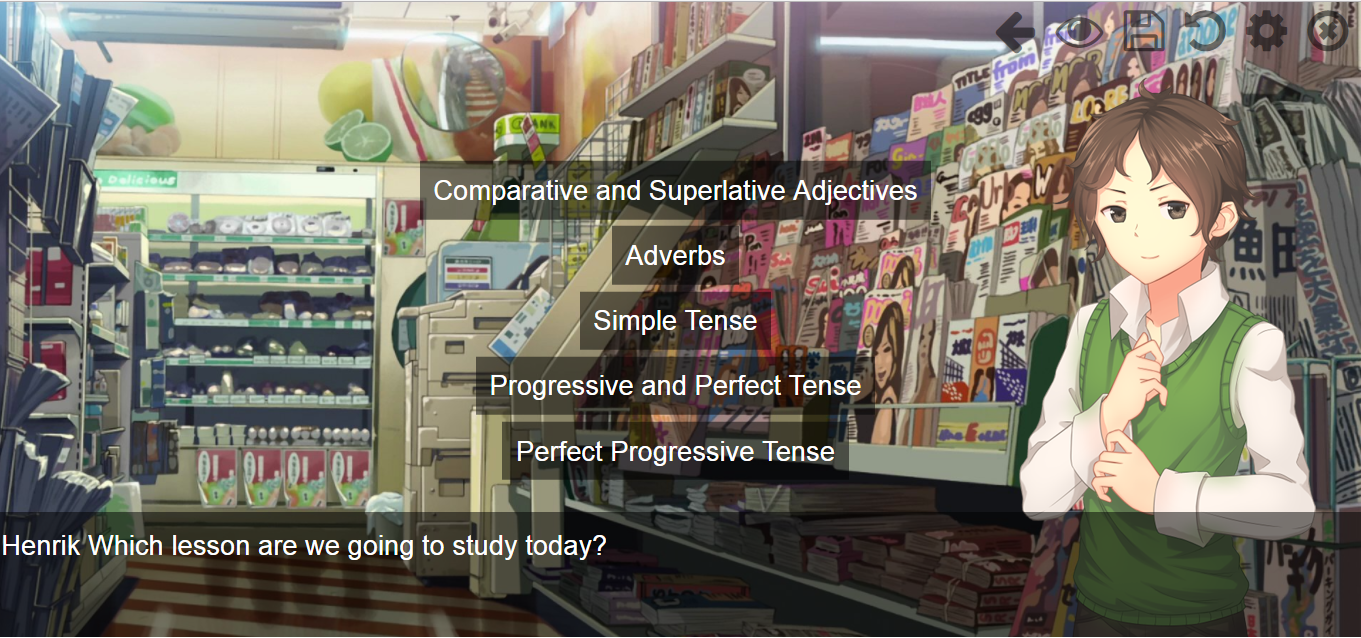
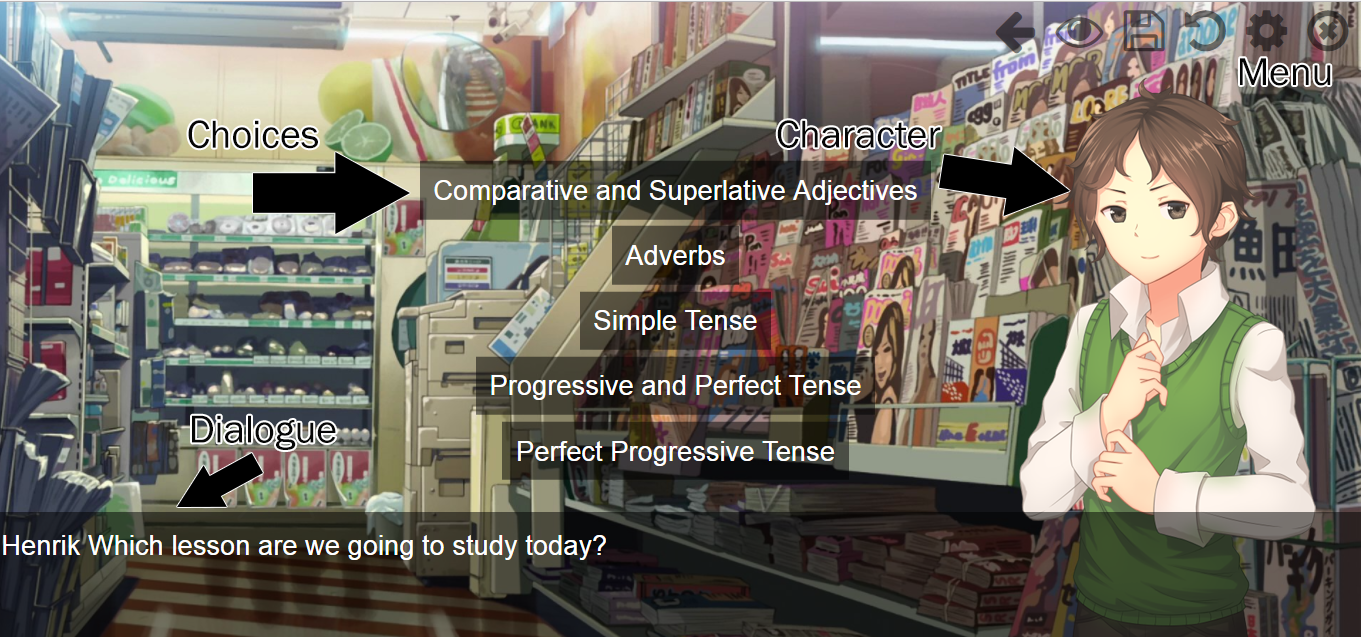
Another Fix
:)

diff --git a/beta/Monogatari/js/script.js b/beta/Monogatari/js/script.js
@@ -59,7 +59,6 @@ var characters = {
 		"Color": "#5bcaff",
 		"Directory":"Sachi",
 		"Images":{
-
 			"Normal":"sachinormal.png",
 			"Happy":"sachi.png"
 		}

diff --git a/beta/accounts_admin.php b/beta/accounts_admin.php
@@ -5,10 +5,23 @@ if(!isset($_SESSION['login']) || !$_SESSION['admin']){
    $_SESSION['error'] = '<b>Error</b> - Please login to continue';
         header("Location: login.php");
 }
+
 $title = 'Accounts';
 $color = 'blue';
 $active = array_fill(0,8,''); 
-$active[7]='active'; include_once('sidepanel.php');?>
+$active[7]='active'; include_once('sidepanel.php');
+if(isset($_SESSION['error']))
+{
+	showNotif("alert-danger", $_SESSION['error']);
+	unset($_SESSION['error']);
+}
+if(isset($_SESSION['success']))
+{
+	showNotif("alert-success", $_SESSION['success']);
+	unset($_SESSION['success']);
+}
+?>
+
   <link href = '//cdnjs.cloudflare.com/ajax/libs/semantic-ui/2.2.6/semantic.min.css' rel ='stylesheet'/>
   <link href = 'https://cdn.datatables.net/1.10.15/css/jquery.dataTables.min.css' rel = 'stylesheet'/>
   <link href ='https://cdn.datatables.net/1.10.15/css/dataTables.semanticui.min.css' rel = 'stylesheet'/>
@@ -71,7 +84,6 @@ $active[7]='active'; include_once('sidepanel.php');?>
                                         echo '<th>First Name</th>';
                                         echo '<th>Last Name</th>';
                                         echo '<th>Action</th>';
-                                   
                                     echo '</thead>';
                                     echo '</tbody>';
                                         //$i = 0;
@@ -79,7 +91,7 @@ $active[7]='active'; include_once('sidepanel.php');?>
                                         {
                                             $edit = "edit_admin.php?id=" . $row['id'];
                                             $delete = "delete.php?id=" . $row['id'];
-                                            $change = 'assignRole.php?id='.$row['id'];
+                                            $generate_report = 'export_results.php?id='.$row['id'];
                                             $roleString = ($row['admin'] == 1) ? "<span class ='glyphicon glyphicon-eye-open'></span>Admin" : "<span class ='glyphicon glyphicon-user'></span>User&nbsp;&nbsp;&nbsp;";
                                             echo '<tr>';
                                                 echo "<td>". $row['id'] ."</td>";
@@ -87,18 +99,16 @@ $active[7]='active'; include_once('sidepanel.php');?>
                                                 echo "<td>". $row['username'] ."</td>";
                                                 echo "<td>". $row['fname'] ."</td>";
                                                 echo "<td>". $row['lname'] ."</td>";
-                                                echo "<td><button class ='btn btn-primary btn-fill ".(($row['id'] == $_SESSION['id'])?"disabled'" : "' onclick = \"window.location.href='{$edit}'\"")." >
+                                                echo "<td style ='padding:0px'><button class ='btn btn-primary btn-fill ".(($row['id'] == $_SESSION['id'])?"disabled'" : "' onclick = \"window.location.href='{$edit}'\"")." >
                                                 <span class ='glyphicon glyphicon-wrench'></span>
                                                 Edit
-                                                </button>&nbsp&nbsp&nbsp
+                                                </button>&nbsp;
                                                 <a href=\"#\" class ='btn btn-danger btn-fill' onclick=\"$('#dialog_{$row['id']}').modal('show');\" role=\"button\" class=\"btn-show-modal\" title=\"Delete?\">
-                                                <span class ='glyphicon glyphicon-remove'></span>Delete</a></td>";
+                                                <span class ='glyphicon glyphicon-remove'></span>Delete</a>&nbsp;<button onclick =\"window.location.href = '{$generate_report}'\" class ='btn btn-primary btn-fill ".(($row['admin'] == 1)? "disabled" : "" )."' style ='background-color: #009700; border-color: #009700'><span class ='glyphicon glyphicon-file'></span>Report</button></td>";
                                           
                                                 showModal("<p>Are you sure you want to delete this record?</p>" . (($row['id'] == $_SESSION['id'])? "<p class ='text-warning'>You will be logged out if you delete a logged in user</p>" : ""), "dialog_{$row['id']}", $delete);
                                           
-                                                showModal("<p>Do you want to change roles?</p>","role_{$row['id']}", $change);
                                             
-                                              
                                             echo '</tr>';
                                         }
                                     echo '</tbody>';

diff --git a/beta/profile.php b/beta/profile.php
@@ -88,45 +88,29 @@ include_once('sidepanel.php');
 			</div>
 			<div  class ='col-md-12'>
 				<div class ='card'>
-					<div class ='content'>
-						<div class ='row'>
-							<div class ='row'>
-								<div class ='col-md-6'>
-									<div class ='card' align ='center'>
-										<div class ='content'>
-											<?php $fetch_completed = mysqli_query($con, "SELECT * FROM complete_lesson WHERE user_id = {$_SESSION['id']} AND completed = 1");
-											?>
-											<h3 class ='header'>Completed Lesson</h3>
-											<div class ='progress'>
-												<?php 
-												$fetch_lessons = mysqli_query($con, "SELECT * FROM lessons");
-												$get_per = (mysqli_num_rows($fetch_completed) / mysqli_num_rows($fetch_lessons)) * 100; 
-												?>
-												<div class ='progress-bar' role = 'progressbar' style ='width:<?php echo $get_per; ?>%; height: 100px' aria-valuenow='25' aria-valuemin = '0' aria-valuemax = '100'><?php echo "(".mysqli_num_rows($fetch_completed)."/".mysqli_num_rows($fetch_lessons).") ". number_format($get_per, 2);?>%</div>
+					<h3 class ='header'><b>Status</b></h3>
 
-											</div>
-											<p>You're almost there. :)</p>
-										</div>
-									</div>
+					<div class ='row'>
+						<div class ='col-md-12'>
+
+							<div class ='content'>
+
+								<?php $fetch_completed = mysqli_query($con, "SELECT * FROM complete_lesson WHERE user_id = {$_SESSION['id']} AND completed = 1");
+								?>
+								<p class ='lead' style = 'font-size: 1.25em'>Lesson Completed</p>
+								<div class ='progress'>
+									<?php 
+									$fetch_lessons = mysqli_query($con, "SELECT * FROM lessons");
+									$get_per = (mysqli_num_rows($fetch_completed) / mysqli_num_rows($fetch_lessons)) * 100; 
+									?>
+									<div class ='progress-bar' role = 'progressbar' style ='width:<?php echo $get_per; ?>%; height: 100px' aria-valuenow='25' aria-valuemin = '0' aria-valuemax = '100'><?php echo "(".mysqli_num_rows($fetch_completed)."/".mysqli_num_rows($fetch_lessons).") ". number_format($get_per, 2);?>%</div>
+
 								</div>
-								<div class ='col-md-6'>
-									<div class ='card' align ='center'>
-										<div class ='content'>
-											<h3 class ='header'>Overall</h3>
-											<h2 class ='header' style = 'margin-top: 0px;'>96%</h2>
-											<h1></h1>
-										</div>
-									</div>
-								</div>
-							</div>
-							<div class ='col-md-12'>
-								<div class ='card' align ='center'>
-									<div class ='content'>
-										<h3 class ='header'></h3>
-									</div>
-								</div>
+
 							</div>
 						</div>
+
+
 					</div>
 				</div>
 			</div>

diff --git a/beta/export_results.php b/beta/export_results.php
@@ -1,0 +1,39 @@
+<?php
+require_once "PHPExcel-1.8/Classes/PHPExcel.php";
+include_once('connectDB.php');
+session_start();
+if($_SESSION['admin']){
+	
+	$fetch_user_lessons = mysqli_query($con, "SELECT * FROM complete_lesson INNER JOIN lessons on complete_lesson.lesson_id = lessons.lesson_no WHERE complete_lesson.user_id = {$_GET['id']}") or die(mysqli_error($con));
+	$fetch_account_name = mysqli_query($con, "SELECT * FROM accounts WHERE id = {$_GET['id']}");
+	$username = mysqli_fetch_assoc($fetch_account_name)['username'];
+	if(mysqli_num_rows($fetch_user_lessons) != 0){
+		$overrallScore = 140;
+		$currentScore = 0;
+		$rowcount = 2;
+		
+		$e = new PHPExcel();
+		$e->setActiveSheetIndex(0)->setCellValue('A1','Lessons')->setCellValue('B1','Score')->setCellValue('C1','Game Type');
+		while($row = mysqli_fetch_assoc($fetch_user_lessons)){
+			$currentScore += $row['score'];
+			$e->setActiveSheetIndex(0)->setCellValue("A{$rowcount}",$row['lesson_name'])->setCellValue("B{$rowcount}", $row['score'])->setCellValue("C{$rowcount}",$row['game_type']);
+			$rowcount++;
+		}
+		$percentage = number_format((($currentScore/$overrallSCore) * 50) + 50,2);
+		$e->setActiveSheetIndex(0)->setCellValue("B{$rowcount}", "$currentScore/$overrallScore")->setCellValue("C{$rowcount}","$percentage");
+		$file = PHPExcel_IOFactory::createWriter($e, 'Excel2007');
+		$file->save("reports/{$username}.xlsx");
+		
+		$_SESSION['success']="<b>Success</b> Result for {$username} has been generated";
+		header("Location: accounts_admin.php");
+	}
+	else{
+		$_SESSION['error'] = "<b>Unable to generate report</b> This user hasn't taken any lessons yet.";
+		header("Location: accounts_admin.php");
+	}
+}
+else{
+	$_SESSION['error'] = '<b>Error</b> Acccess Denied';
+	header("Location: index.php");
+}
+?>

diff --git a/beta/lessons.php b/beta/lessons.php
@@ -33,7 +33,8 @@ if(isset($_SESSION['success']))
 			<div class="col-md-12">
 				<div class="card">
 					<div class="header">
-						<h4 class="title">Basic English Lessons</h4>
+						<h4 class="title">Course Outline</h4>
+						<p class ='category'>Lessons that will teach you in-game</p>
 					</div>
 					<div class="content table-responsive table-full-width" <?php if($_SESSION['admin']) { echo "style ='padding-left:50px'"; }?>>
 						<?php
@@ -75,8 +76,6 @@ if(isset($_SESSION['success']))
 							<th>Lesson Number</th>
 							<th>Name</th>
 							<?php if(!$_SESSION['admin']){?>
-							<th>Score</th>
-							<th>Status</th>
 							<?php }?>
 							<th>Game Type</th>
 							<?php 
@@ -96,14 +95,8 @@ if(isset($_SESSION['success']))
 								if(!$_SESSION['admin']){
 									$userScore = 0;
 									echo '<td>' . $row['lesson_no'] . '</td>';
-									echo '<td>' . $row['lesson_name'] . '</td>';
-									$fetchComplete = mysqli_query($con, "SELECT * FROM complete_lesson WHERE lesson_id = {$row['lesson_no']} AND user_id = {$_SESSION['id']}") or die(mysqli_error($con));
-									if(mysqli_num_rows($fetchComplete) != 0){
-										while($row1 = mysqli_fetch_assoc($fetchComplete))
-											$userScore = $row1['score'];
-									}
-									echo "<td>{$userScore}/4</td>";
-									echo '<td>' . (($userScore == 4)? "Complete" :"Incomplete"). '</td>';
+									echo "<td><a style = 'text-decoration:none; color: #131313;'href ='https://en.wikipedia.org/wiki/Special:Search?search={$row['lesson_name']}' >{$row['lesson_name']}</a></td>";
+								
 									echo '<td>' . $row['game_type'] . '</td>';
 								}
 								else{

diff --git a/beta/sidepanel.php b/beta/sidepanel.php
@@ -103,7 +103,7 @@ Tip 2: you can also add an image using data-image tag
 				<li class = '<?php echo $active[3];?>'>
 				    <a href="lessons.php">
 					  <i class="pe-7s-news-paper"></i>
-					  <p>Lessons Overview</p>
+					  <p>Course Outline</p>
 				    </a>
 				</li>
 <!--
@@ -154,7 +154,7 @@ Tip 2: you can also add an image using data-image tag
 
 				    <ul class="nav navbar-nav navbar-right">
 					  <li>
-						<a>Today is : <?php echo date("g:i A");?></a> 
+						<a>Today is : <?php echo date("F d, Y");?></a> 
 					  </li>
 					  <li class="dropdown">
 						<a href="#" class="dropdown-toggle" data-toggle="dropdown">

diff --git a/beta/forgotpass.php b/beta/forgotpass.php
@@ -78,7 +78,7 @@ session_start();
 					<h4 class="modal-title">Success</h4>
 				</div>
 				<div class="modal-body">
-					<p>Your password code is <b><?php echo $_SESSION['code']?></b></p>
+					<p>Your new password code is <b><?php echo $_SESSION['code']?></b></p>
 				</div>
 				<div class="modal-footer">
 					<button type="button" class="btn btn-default" data-dismiss="modal">Close</button>
@@ -100,7 +100,6 @@ session_start();
 		<div class ='row'>
 			<div class ='col-md-6 side-bg'>
 				<div class ='content' style = 'padding:40px;' >
-
 				</div>
 			</div>
 			<div class ='col-md-6' style ='padding-left:0px'>

diff --git a/beta/Monogatari/index.php b/beta/Monogatari/index.php
@@ -155,11 +155,6 @@ if(!$_SESSION['login']){
 			</div>
 		</div>
 		<ul data-ui="quick-menu" class="align-right dark">
-			<span class="fa fa-arrow-left" data-action="back"></span>
-			<span class="fa fa-eye" data-action="distraction-free"></span>
-			<span class="fa fa-save" data-action="open-menu" data-open="save"></span>
-			<span class="fa fa-undo" data-action="open-menu" data-open="load"></span>
-			<span class="fa fa-gear" data-action="open-menu" data-open="settings"></span>
 			<span class="fa fa-times-circle-o" data-action="end"></span>
 		</ul>
 		<div data-ui="choices" class="vertical align-center middle">

diff --git a/beta/index.php b/beta/index.php
@@ -127,6 +127,10 @@ while($row = mysqli_fetch_assoc($query))
 					</div>
 					<div class ='content'>
 						<p>Visual Novels (English 101 with Sachi & Henriks Supermarket)</p>
+						<p>Press left click to interact in the game.</p>
+						<p><b>Game's Interface</b></p>
+						<img src = 'assets/img/gameplay-choice.png' width = '100%'/>
+						<img src = 'assets/img/gameplay-choice-answer.png' width = '100%'/>
 					</div>
 				</div>
 

diff --git a/beta/about.php b/beta/about.php
@@ -112,6 +112,7 @@ include_once('sidepanel.php');
 						<div style ='clear:both'>
 							<div class ='content'>
 								<hr>
+								<div class="footer">
 									<div class="legend">
 										<i class="fa fa-facebook"></i> Facebook
 										<i class="fa fa-twitter"></i> Twitter
